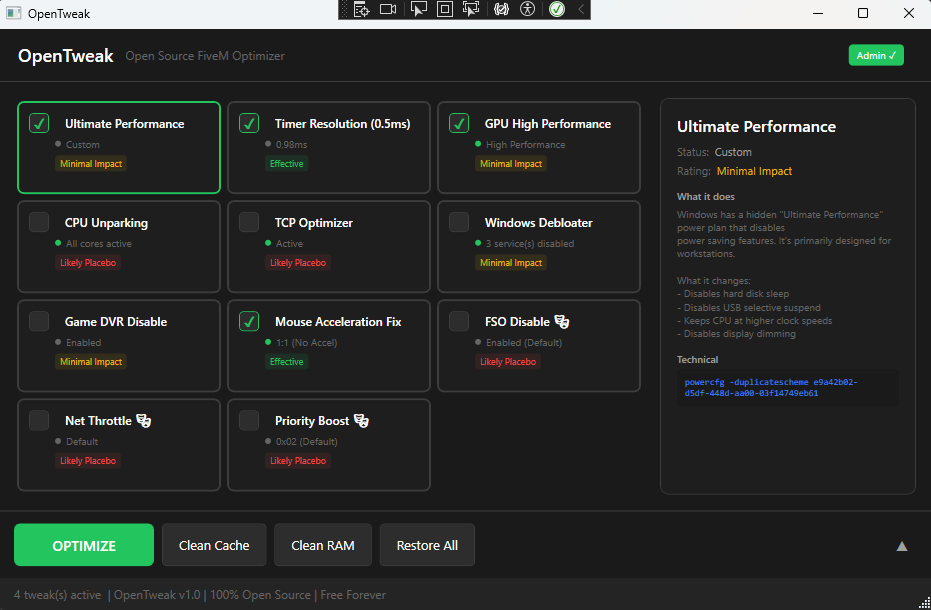
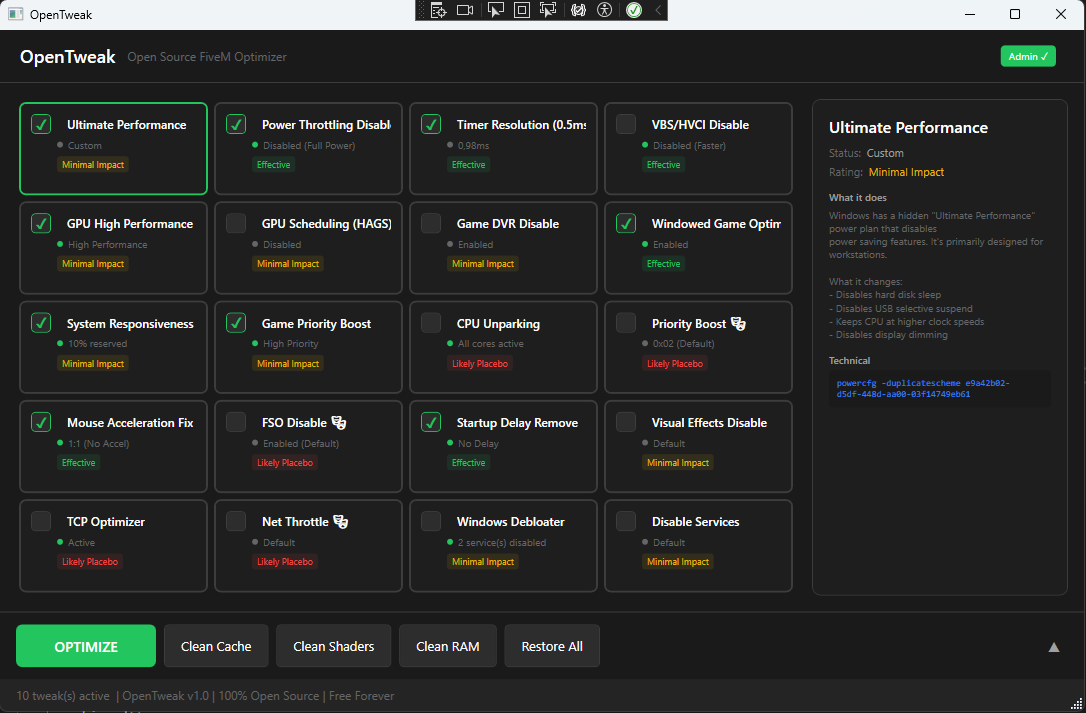
chore: update readme and screenshot

diff --git a/docs/tweaks/README.md b/docs/tweaks/README.md
@@ -62,6 +62,7 @@ Complete documentation for all OpenTweak optimizations. Each tweak is rated hone
 | Tool | Impact | Description |
 |------|--------|-------------|
 | [Cache Cleaner](cache-cleaner.md) | ✅ Effective | Clears FiveM cache and logs |
+| [Shader Cache Cleaner](shader-cache-cleaner.md) | ✅ Effective | Clears GPU shader caches |
 | [RAM Cleaner](ram-cleaner.md) | ⚠ Minimal | Clears Windows standby memory |
 
 ---
@@ -76,6 +77,7 @@ Complete documentation for all OpenTweak optimizations. Each tweak is rated hone
 - Startup Delay Remove (faster boot on SSDs)
 - Windowed Optimizations (Win11 only, real latency reduction)
 - Cache Cleaner (fixes corrupted assets)
+- Shader Cache Cleaner (fixes stuttering after driver updates)
 
 **Situational:**
 - Ultimate Performance (laptops, older hardware)
